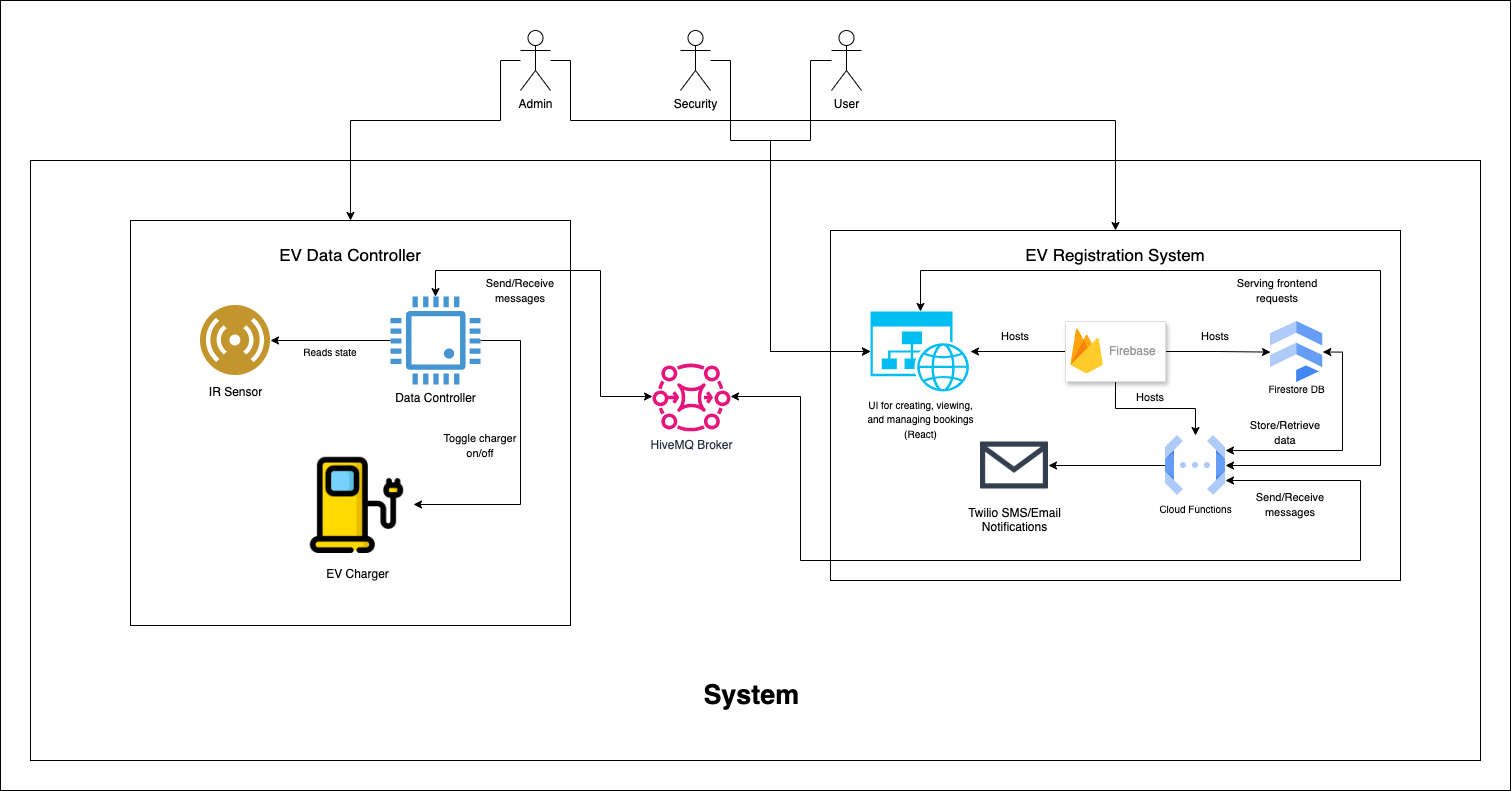
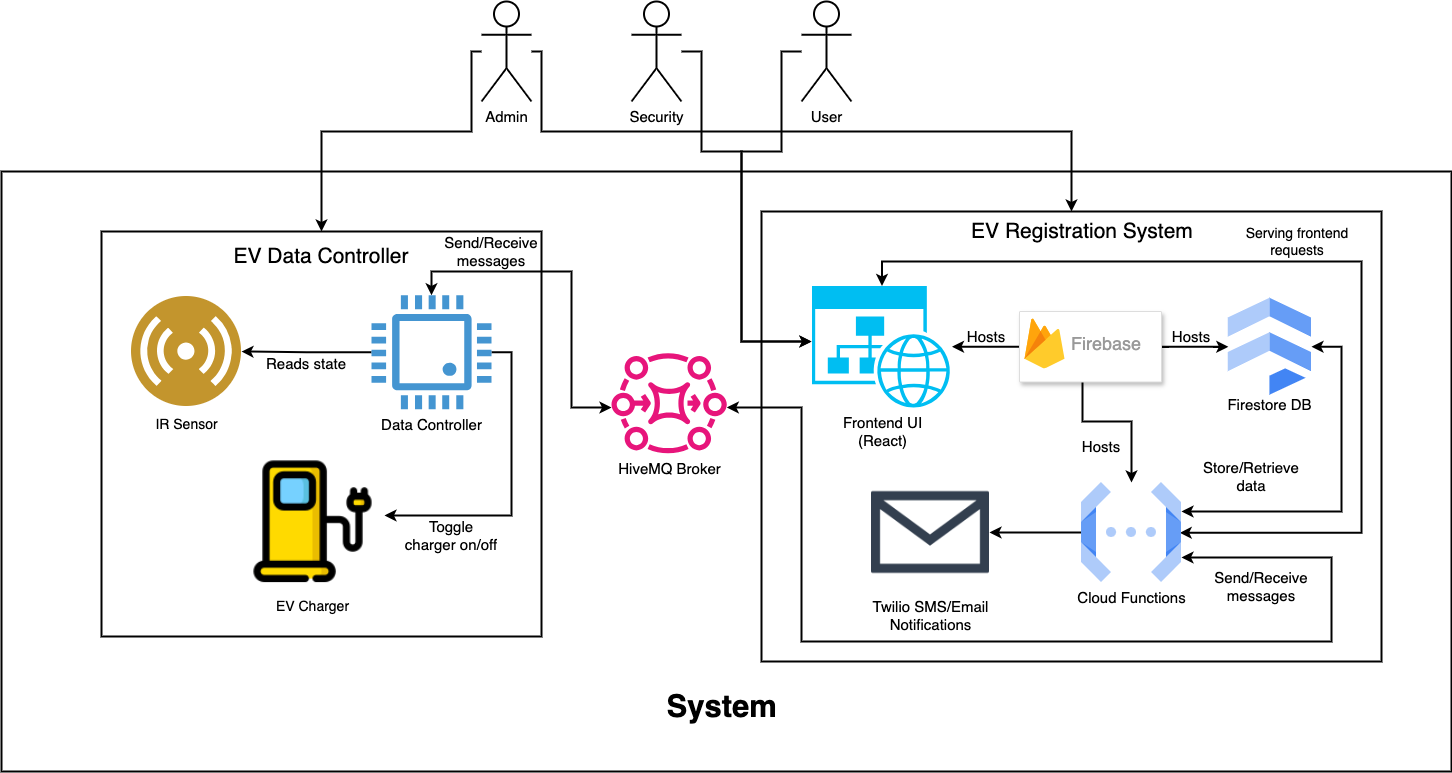
stuff

diff --git a/app/controller.py b/app/controller.py
@@ -1,3 +1,4 @@
+from datetime import datetime
 import math
 import time
 import threading
@@ -96,8 +97,8 @@ class Controller:
 
         summary_data = {
             "charger_id": self.charger.id,
-            "start_time": self.session_start_time,
-            "end_time": end_time,
+            "start_time": datetime.fromtimestamp(self.session_start_time).isoformat(),
+            "end_time": datetime.fromtimestamp(end_time).isoformat(),
             "hours_charged": hours_charged,
             "session_energy": self.charger.session_energy
         }
